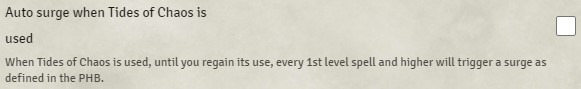
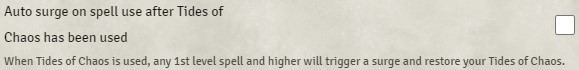
Update description

diff --git a/README.md b/README.md
@@ -216,11 +216,11 @@ Based on the target dice roll, should the result be less/greater than or equal t
 
 [![Roll result boolean expression](https://raw.githubusercontent.com/johnnolan/wild-magic-surge-5e/main/images/roll-result-boolean.jpg)](https://raw.githubusercontent.com/johnnolan/wild-magic-surge-5e/main/images/roll-result-boolean.jpg)
 
-### Auto surge when Tides of Chaos is used
+### Auto surge on spell use after Tides of Chaos has been used
 
-When Tides of Chaos is used, until you regain its use, every 1st level spell and higher will trigger a surge as defined in the PHB.
+When Tides of Chaos is used, any 1st level spell and higher will trigger a surge and restore your Tides of Chaos.
 
-[![Auto surge when Tides of Chaos is used](https://raw.githubusercontent.com/johnnolan/wild-magic-surge-5e/main/images/auto-surge-toc.jpg)](https://raw.githubusercontent.com/johnnolan/wild-magic-surge-5e/main/images/auto-surge-toc.jpg)
+[![Auto surge on spell use after Tides of Chaos has been used](https://raw.githubusercontent.com/johnnolan/wild-magic-surge-5e/main/images/auto-surge-toc.jpg)](https://raw.githubusercontent.com/johnnolan/wild-magic-surge-5e/main/images/auto-surge-toc.jpg)
 
 ### Setup varying Wild Magic Surge triggers dependent on spell level
 
